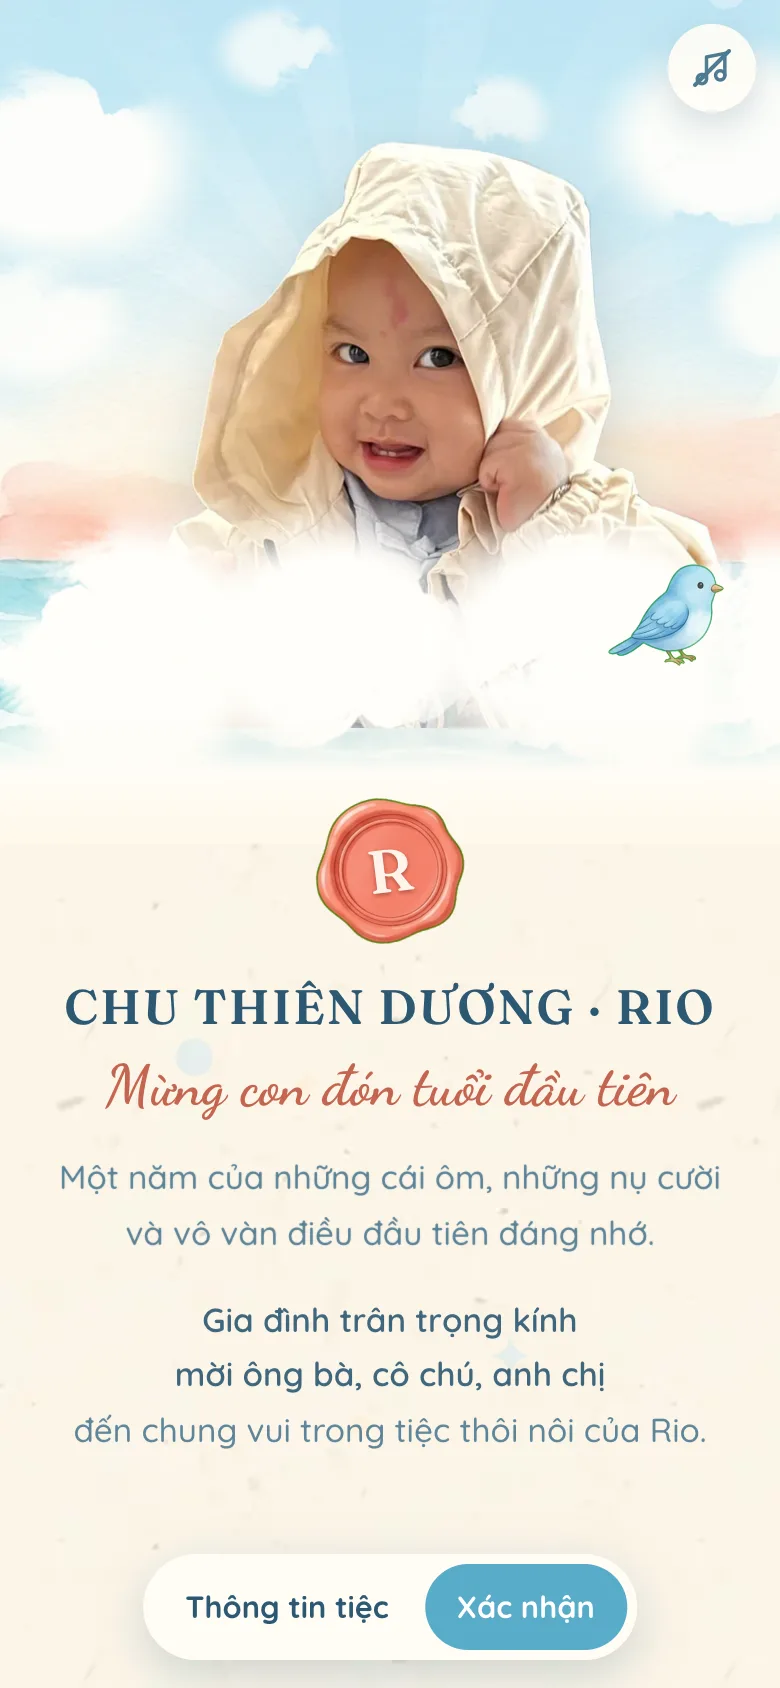
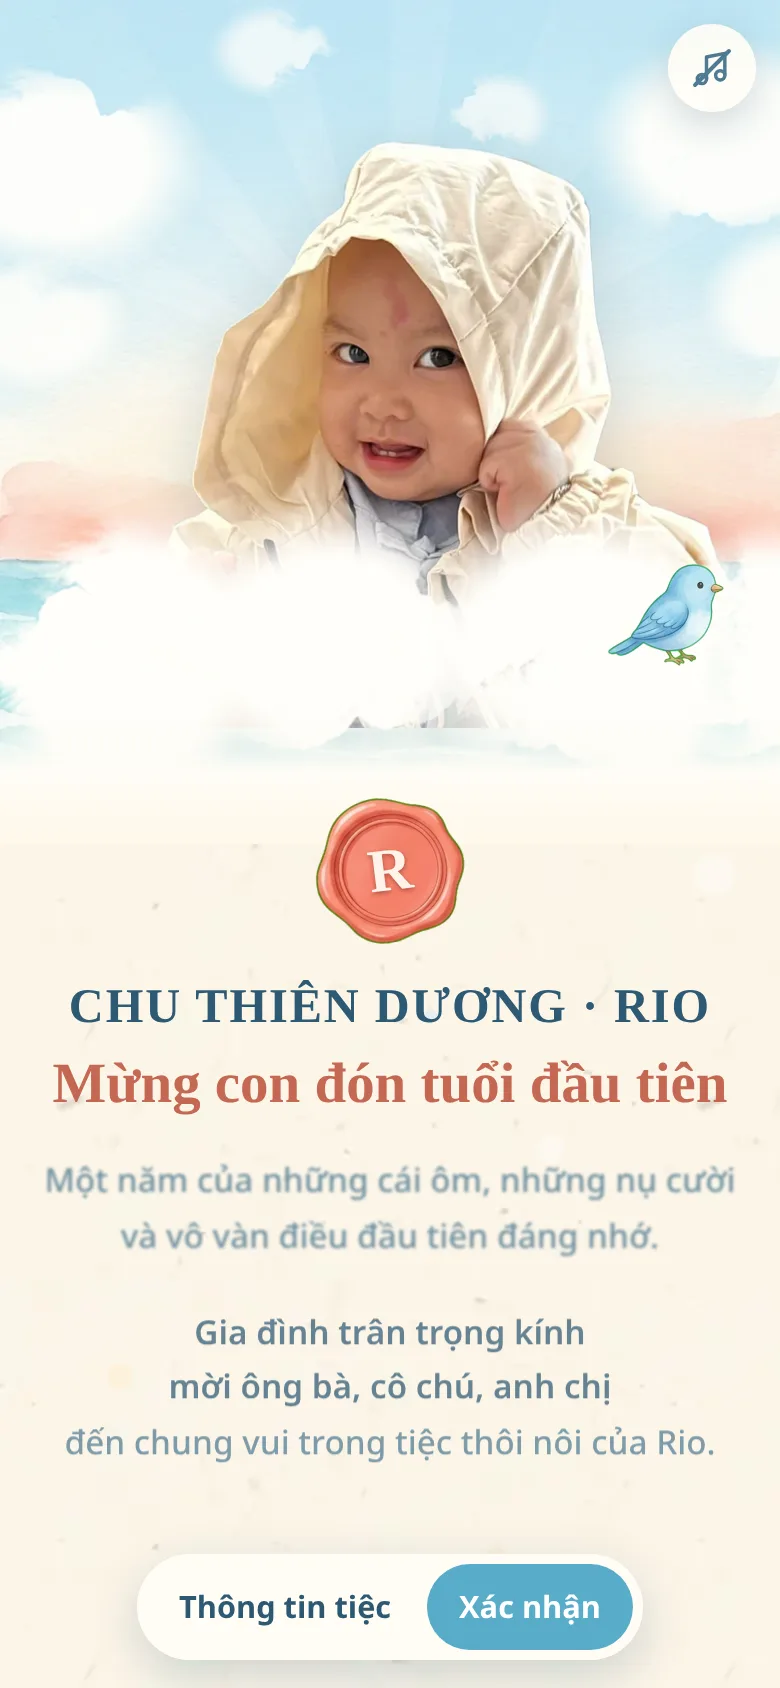
khach chu-thien-duong: bia thay chai bang anh Rio cam may anh (crop 3:4, giu file goc)

diff --git a/products/Invitation/Other/khach_chu-thien-duong/index.html b/products/Invitation/Other/khach_chu-thien-duong/index.html
@@ -45,7 +45,8 @@ a{color:inherit}
 .bia-tieu{font-family:var(--font-h);font-weight:600;font-size:clamp(1.65rem,7.4vw,2.2rem);letter-spacing:.06em;line-height:1.2;color:var(--ink);animation:hien 1.8s var(--soft) both .2s}
 .bia-sub{text-wrap:balance;font-size:1.06rem;color:var(--ink-2);margin-top:10px;animation:hien 1.8s var(--soft) both .7s}
 @keyframes hien{from{opacity:0;transform:translateY(16px)}to{opacity:1;transform:none}}
-.chai-dat{--w:min(44vw,23svh,210px);position:absolute;z-index:2;left:50%;top:33svh;width:var(--w);margin-left:calc(var(--w) / -2);cursor:pointer;animation:troi-vao 3.6s var(--soft) both}
+.chai-dat{--w:min(58vw,32svh,250px);position:absolute;z-index:2;left:50%;top:33svh;width:var(--w);margin-left:calc(var(--w) / -2);cursor:pointer;animation:troi-vao 3.6s var(--soft) both}
+.chai-anh-moi{position:relative;display:block;width:100%;border:6px solid #fffdf8;border-radius:8px;box-shadow:0 12px 26px rgba(44,88,115,.35);transform:rotate(-2deg)}
 @keyframes troi-vao{from{opacity:0;transform:translate(-62vw,7svh) rotate(-16deg)}to{opacity:1;transform:none}}
 .chai-bob{position:relative;display:block;width:100%;animation:bob 7s ease-in-out infinite alternate;transform-origin:50% 72%}
 @keyframes bob{from{transform:translateY(-7px) rotate(-3deg)}to{transform:translateY(9px) rotate(3.5deg)}}
@@ -283,7 +284,7 @@ textarea{min-height:104px;resize:vertical;line-height:30px;background-image:repe
 .nhac svg{width:22px;height:22px}
 .nhac[aria-pressed="true"]{color:var(--coral-d)}
 .nhac[aria-pressed="false"]::after{content:"";position:absolute;width:26px;height:2px;background:currentColor;transform:rotate(-45deg);border-radius:2px}
-@media (max-height:680px){.bia-chu{padding-top:40px}.bia-tieu{font-size:1.5rem}.bia-sub{font-size:1rem;margin-top:6px}.chai-dat{--w:min(38vw,17svh);top:42svh}.than-gui{margin-bottom:2px}}
+@media (max-height:680px){.bia-chu{padding-top:40px}.bia-tieu{font-size:1.5rem}.bia-sub{font-size:1rem;margin-top:6px}.chai-dat{--w:min(46vw,22svh);top:42svh}.than-gui{margin-bottom:2px}}
 /* Màn hình lớn: giữ thiệp trong một cột khổ điện thoại, nền trời mờ hai bên */
 @media (min-width:700px){
   body{background:linear-gradient(#CDE9F6,#EAF5F4 55%,#F6E9D6) fixed}
@@ -315,13 +316,7 @@ textarea{min-height:104px;resize:vertical;line-height:30px;background-image:repe
   </div>
   <div class="chai-dat" id="chai">
     <span class="chai-bob">
-      <img class="chai-nut" id="nutChai" src="images/cork.webp" alt="">
-      <img class="chai-img" src="images/bottle.webp" alt="Chai thủy tinh có cuộn thư và ảnh của Rio">
-      <span class="ben-trong">
-        <span class="chai-anh"><img src="photos/mini.webp" alt=""></span>
-        <img class="chai-cuon" src="images/scroll.webp" alt="">
-      </span>
-      <span class="chai-kinh"></span>
+      <img class="chai-anh-moi" id="anhChai" src="photos/nh_Rio_34.png" alt="Bé Chu Thiên Dương cầm máy ảnh">
     </span>
   </div>
   <div class="mat-nuoc" aria-hidden="true"></div>
@@ -579,7 +574,7 @@ textarea{min-height:104px;resize:vertical;line-height:30px;background-image:repe
 
   TpxFx.mo({
     cua: '#cua', nut: '#openBtn', thoiGian: 4100, khiMoSau: 3500,
-    bung: { tu: $('nutChai'), tre: 380, n: 14, hinh: ['sao4', 'tron'], mau: ['#FFFFFF', '#FFE9C7', '#BFE3F5'] }
+    bung: { tu: $('anhChai'), tre: 380, n: 14, hinh: ['sao4', 'tron'], mau: ['#FFFFFF', '#FFE9C7', '#BFE3F5'] }
   });
   $('openBtn').addEventListener('click', function () {
     setTimeout(function () { cua.classList.add('re'); }, 1900);
